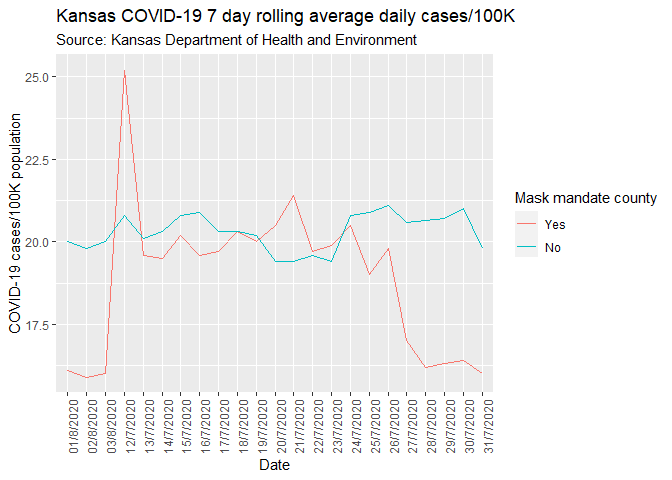
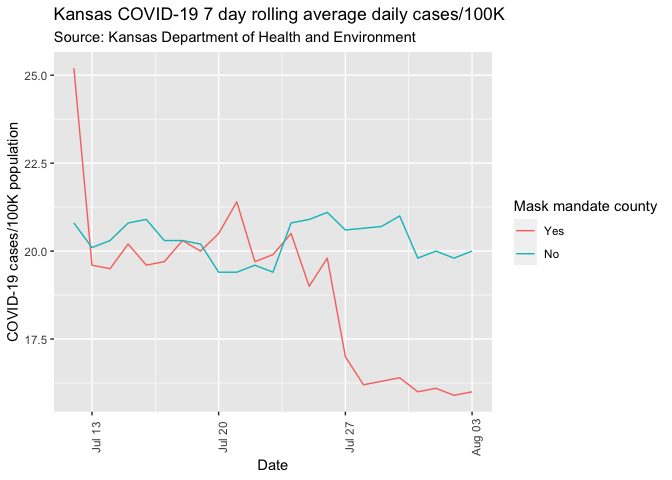
complete comment on visualization

diff --git a/lab-06.md b/lab-06.md
@@ -6,6 +6,7 @@ TEAM NAME
 
 ``` r
 library(tidyverse) 
+library(lubridate)
 ```
 
 ### Exercise 1
@@ -62,10 +63,38 @@ mask_data <- tribble(
 )
 ```
 
+``` r
+new_mask <- mask_data %>% 
+  mutate(date = dmy(date)) %>% 
+  arrange(date) 
+
+unique(new_mask$date)
+```
+
+    ##  [1] "2020-07-12" "2020-07-13" "2020-07-14" "2020-07-15" "2020-07-16"
+    ##  [6] "2020-07-17" "2020-07-18" "2020-07-19" "2020-07-20" "2020-07-21"
+    ## [11] "2020-07-22" "2020-07-23" "2020-07-24" "2020-07-25" "2020-07-26"
+    ## [16] "2020-07-27" "2020-07-28" "2020-07-29" "2020-07-30" "2020-07-31"
+    ## [21] "2020-08-01" "2020-08-02" "2020-08-03"
+
+``` r
+head(new_mask$date)
+```
+
+    ## [1] "2020-07-12" "2020-07-12" "2020-07-13" "2020-07-13" "2020-07-14"
+    ## [6] "2020-07-14"
+
 ### Exercise 2
 
 ``` r
-ggplot(mask_data, mapping = aes(date, count, colour = mask, group = mask)) +
+#mask_data %>% 
+#  mutate(date = as.Date(date)) %>%
+  #separate(date, c('date', 'month', 'year'), remove = TRUE,
+  #convert = FALSE) %>%
+  #arrange(month, date) %>%
+
+new_mask %>% 
+ggplot(mapping = aes(x= date, y=count, colour = mask, group = mask)) +
   geom_line() +
   theme(axis.text.x = element_text(angle = 90)) +
   labs(x = "Date",
@@ -80,7 +109,14 @@ ggplot(mask_data, mapping = aes(date, count, colour = mask, group = mask)) +
 
 ### Exercise 3
 
-*Add your narrative here.*
+The same y-axis makes the difference between with mask and without mask
+be shown more obviously. As shown in above visualization, we can say
+mask-mandate counties experienced extremely large size of population
+getting covid-19 at first but finally decreased to a small population,
+while for non-mask-mandate counties, size of covid-19 population was
+continuously at about 2000k. So, even if there were more people getting
+covid-19 with mask at first, after half month, there were much less
+people getting covid-19 with mask than that without mask.
 
 ### Exercise 4
 
